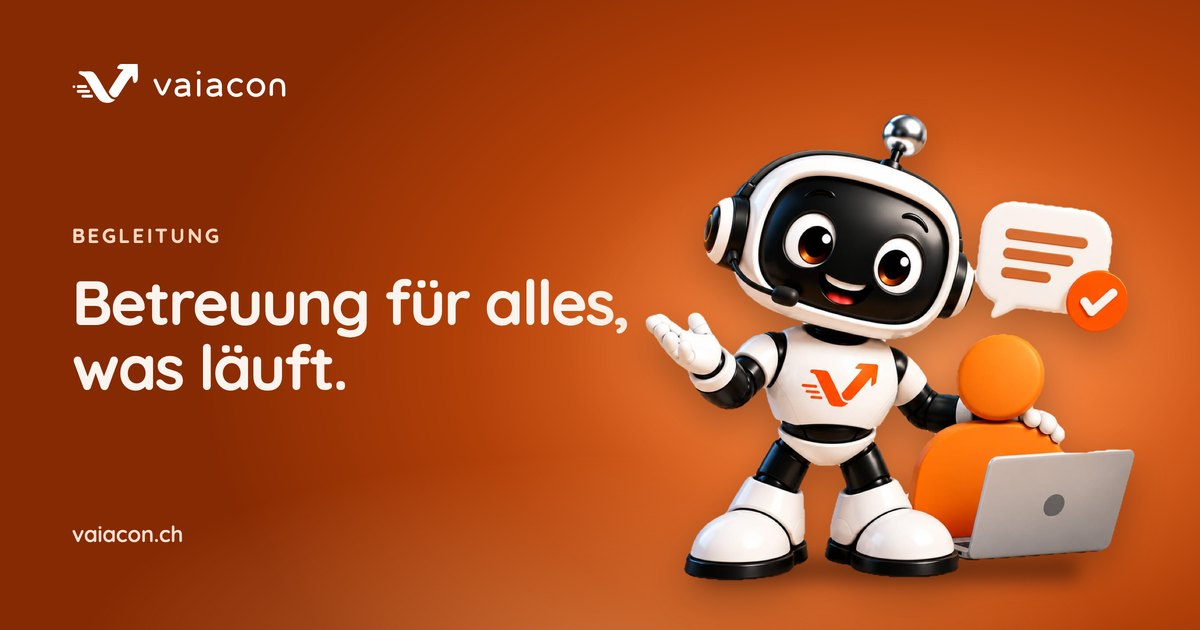
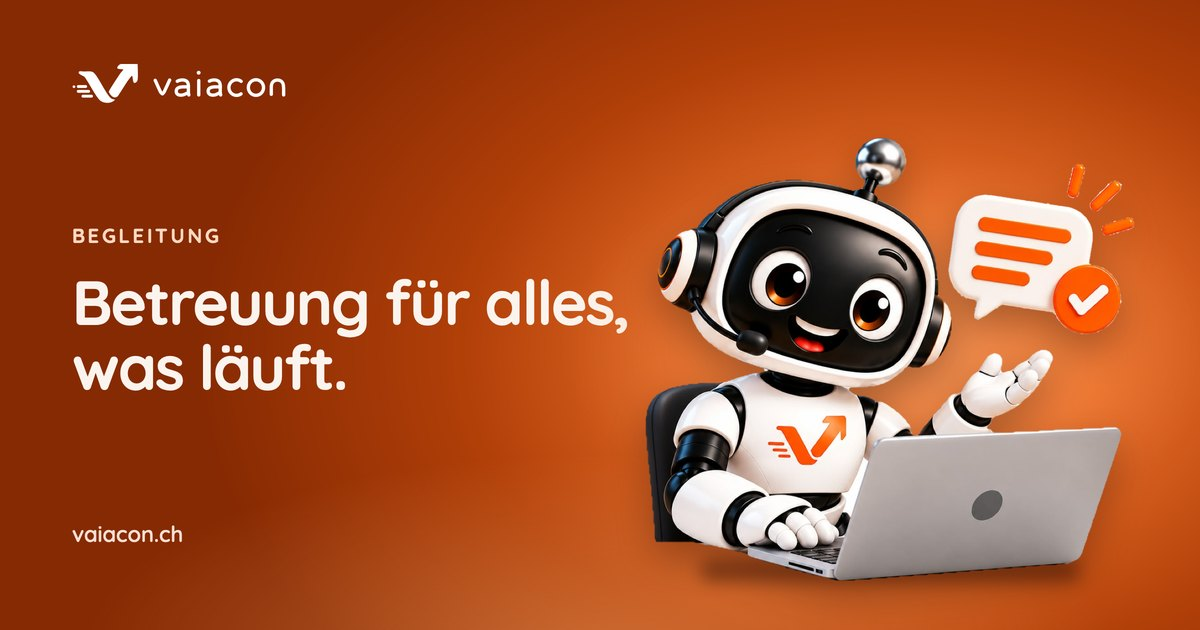
Begleitung: Hero-Roboter am Laptop statt mit Kundin
Bild vaiacon-buerobot-begleitung-laptop ersetzt -kunde in service.html, bilder_webp.py und vorschaubilder.py; Vorschaubild neu erzeugt.

Changed region(s): [[0.5242, 0.181, 0.9558, 0.9651]]

diff --git a/service.html b/service.html
@@ -14,7 +14,7 @@
 <meta property="og:image" content="https://vaiacon.ch/assets/vorschau-begleitung.jpg">
 <meta property="og:image:width" content="1200">
 <meta property="og:image:height" content="630">
-<meta property="og:image:alt" content="Der vaiacon-Roboter begleitet eine Kundin, daneben: Betreuung für alles, was läuft.">
+<meta property="og:image:alt" content="Der vaiacon-Roboter sitzt am Laptop, daneben: Betreuung für alles, was läuft.">
 <meta name="twitter:card" content="summary_large_image">
 <title>Betreuung für alles, was läuft · vaiaconService</title>
 <link rel="stylesheet" href="styles.css">
@@ -156,8 +156,8 @@
           </div>
         </div>
         <div class="sv-hero__visual" aria-label="vaiaconService Übersicht">
-          <figure class="sv-hero__robot sv-hero__robot--frei sv-hero__robot--breit" style="--bot-verhaeltnis: 859 / 820">
-            <picture><source srcset="assets/vaiacon-buerobot-begleitung-kunde.webp" type="image/webp"><img src="assets/vaiacon-buerobot-begleitung-kunde.png" alt="Der vaiacon-Roboter mit Headset begleitet eine Kundin am Laptop" width="859" height="820" fetchpriority="high"></picture>
+          <figure class="sv-hero__robot sv-hero__robot--frei sv-hero__robot--breit" style="--bot-verhaeltnis: 904 / 820">
+            <picture><source srcset="assets/vaiacon-buerobot-begleitung-laptop.webp" type="image/webp"><img src="assets/vaiacon-buerobot-begleitung-laptop.png" alt="Der vaiacon-Roboter mit Headset sitzt am Laptop, daneben eine Sprechblase mit Häkchen" width="904" height="820" fetchpriority="high"></picture>
           </figure>
         </div>
       </div>

diff --git a/scripts/vorschaubilder.py b/scripts/vorschaubilder.py
@@ -56,7 +56,7 @@ BILDER = {
     "schulung": ("Schulung im Betrieb", "KI-Schulung für Schweizer KMU.",
                  "vaiacon-buerobot-schulung-zeigestab.png", "Der vaiacon-Roboter mit Zeigestab"),
     "begleitung": ("Begleitung", "Betreuung für alles, was läuft.",
-                   "vaiacon-buerobot-begleitung-kunde.png", "Der vaiacon-Roboter begleitet eine Kundin"),
+                   "vaiacon-buerobot-begleitung-laptop.png", "Der vaiacon-Roboter sitzt am Laptop"),
     "ueber-uns": ("Über uns", "Die Menschen hinter vaiacon.",
                   "vaiacon-buerobot-ueber-uns-willkommen.png", "Der vaiacon-Roboter heisst Sie willkommen"),
     "academy": ("Kurse", "KI-Weiterbildung für Schweizer KMU.",

diff --git a/scripts/bilder_webp.py b/scripts/bilder_webp.py
@@ -30,7 +30,7 @@ BILDER = {
     "assets/vaiacon-buerobot-automatisierung-zahnrad.png": (616, None),
     "assets/vaiacon-buerobot-sichtbarkeit-lupe.png": (616, None),
     "assets/vaiacon-buerobot-schulung-zeigestab.png": (616, None),
-    "assets/vaiacon-buerobot-begleitung-kunde.png": (616, None),
+    "assets/vaiacon-buerobot-begleitung-laptop.png": (616, None),
     "assets/vaiacon-buerobot-ueber-uns-willkommen.png": (616, None),
     "assets/vaiacon-buerobot-academy-schreibtisch.png": (616, None),
     "assets/andre-ulrich-team.png": (None, 1200),
